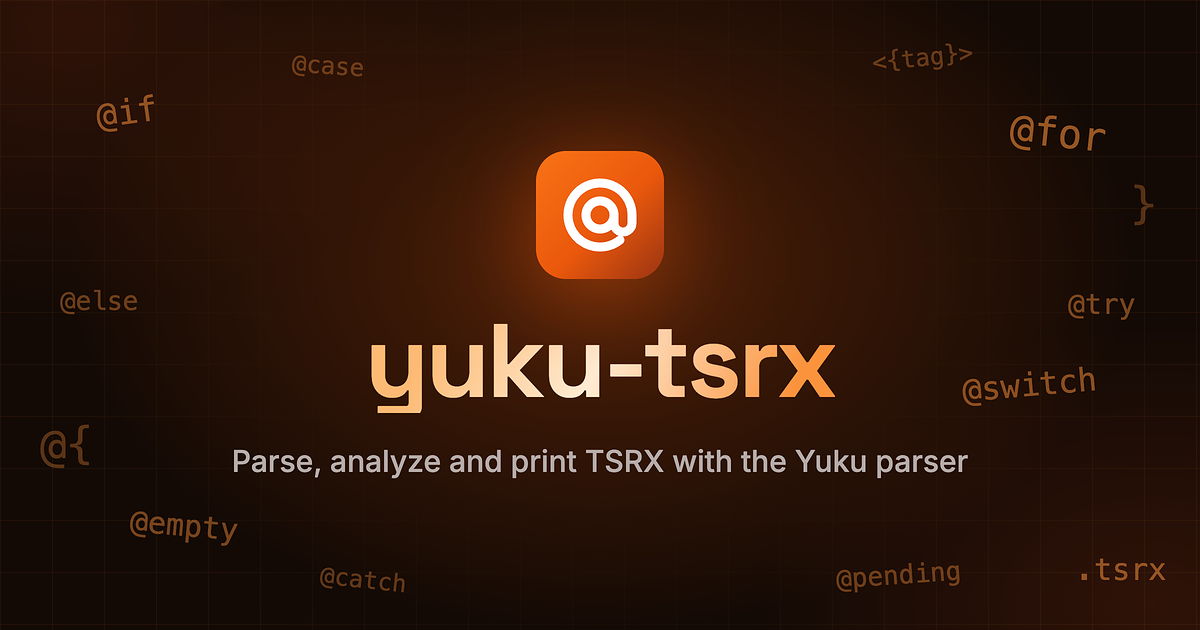
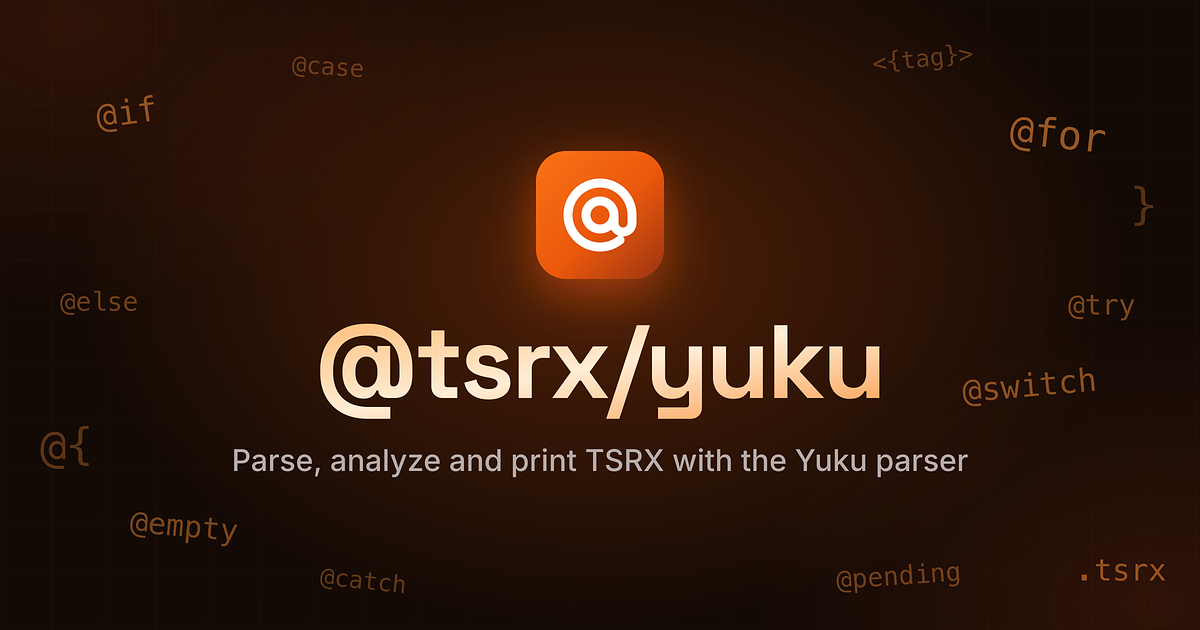
docs: use @tsrx/yuku across the website

diff --git a/yuku-website/assets/yuku-wasm.js b/yuku-website/assets/yuku-wasm.js
@@ -42,11 +42,11 @@ export function packFlags(options = {}) {
   return flags >>> 0
 }
 
-// Same text as npm/yuku-tsrx/index.js, so both hosts refuse the same way.
+// Same text as npm/yuku/index.js, so both hosts refuse the same way.
 const QUOTES_SHORTEST_UNSUPPORTED =
-  'yuku-tsrx generate: quotes "shortest" is not supported here; the codegen offers "preserve", "double" and "single", and minify picks the shortest quote itself'
+  '@tsrx/yuku generate: quotes "shortest" is not supported here; the codegen offers "preserve", "double" and "single", and minify picks the shortest quote itself'
 const SOURCE_MAPS_UNSUPPORTED =
-  'yuku-tsrx generate: sourceMaps is not supported here; the wasm build carries no source maps'
+  '@tsrx/yuku generate: sourceMaps is not supported here; the wasm build carries no source maps'
 
 // bit 0 strip, 1 minify, 2 compact, 3-4 quotes, 5-7 comments, 8-15 indent.
 export function packGenerateOptions(options = {}) {
@@ -86,7 +86,7 @@ let bootPromise = null
 async function boot() {
   const response = await fetch(wasmUrl)
   if (!response.ok) {
-    throw new Error(`yuku-tsrx wasm: HTTP ${response.status} for ${wasmUrl.pathname}`)
+    throw new Error(`@tsrx/yuku wasm: HTTP ${response.status} for ${wasmUrl.pathname}`)
   }
   const contentType = response.headers.get('content-type') ?? ''
   let instance
@@ -98,7 +98,7 @@ async function boot() {
     ;({ instance } = await WebAssembly.instantiate(await response.arrayBuffer(), {}))
   }
   for (const name of ['memory', 'alloc', 'free', 'parse', 'analyze', 'generate']) {
-    if (!(name in instance.exports)) throw new Error(`yuku-tsrx wasm: missing export ${name}`)
+    if (!(name in instance.exports)) throw new Error(`@tsrx/yuku wasm: missing export ${name}`)
   }
   const [{ decode }, analyzer] = await Promise.all([
     import(decodeUrl.href),
@@ -134,7 +134,7 @@ function writeSource(source) {
   const bytes = encoder.encode(source)
   const len = Math.max(bytes.length, 1)
   const ptr = engine.exports.alloc(len)
-  if (ptr === 0) throw new Error('yuku-tsrx wasm: alloc returned 0')
+  if (ptr === 0) throw new Error('@tsrx/yuku wasm: alloc returned 0')
   new Uint8Array(engine.exports.memory.buffer, ptr, bytes.length).set(bytes)
   return { ptr, len, byteLength: bytes.length }
 }
@@ -154,7 +154,7 @@ function call(name, source, flags, opts) {
       opts === undefined
         ? engine.exports[name](input.ptr, input.byteLength, flags)
         : engine.exports[name](input.ptr, input.byteLength, flags, opts)
-    if (ptr === 0) throw new Error(`yuku-tsrx wasm: ${name} failed`)
+    if (ptr === 0) throw new Error(`@tsrx/yuku wasm: ${name} failed`)
     return takePrefixed(ptr)
   } finally {
     engine.exports.free(input.ptr, input.len)
@@ -220,7 +220,7 @@ export async function generate(source, options = {}, generateOptions = {}) {
     offset += messageLength
   }
   if (offset !== payload.byteLength) {
-    throw new Error(`yuku-tsrx wasm: generate payload is ${payload.byteLength} bytes but decoded ${offset}`)
+    throw new Error(`@tsrx/yuku wasm: generate payload is ${payload.byteLength} bytes but decoded ${offset}`)
   }
   return { code, errors, ms: performance.now() - started }
 }

diff --git a/test/m4.test.ts b/test/m4.test.ts
@@ -257,7 +257,7 @@ test("generate honours strip and minify through the npm host", () => {
 test("generate refuses shortest quotes outside minify with one message on both hosts", async () => {
 	const program = parse("const s = 'x';", { lang: "ts" }).program;
 	const message =
-		'yuku-tsrx generate: quotes "shortest" is not supported here; the codegen offers "preserve", "double" and "single", and minify picks the shortest quote itself';
+		'@tsrx/yuku generate: quotes "shortest" is not supported here; the codegen offers "preserve", "double" and "single", and minify picks the shortest quote itself';
 	expect(() => generate(program, { quotes: "shortest" })).toThrow(new TypeError(message));
 	expect(() => generate(program, { minify: { quotes: true } })).toThrow(new TypeError(message));
 	const browser = await import("../yuku-website/assets/yuku-wasm.js");
@@ -267,7 +267,7 @@ test("generate refuses shortest quotes outside minify with one message on both h
 	);
 	expect(() => browser.packGenerateOptions({ sourceMaps: { source: "const s = 'x';" } })).toThrow(
 		new TypeError(
-			"yuku-tsrx generate: sourceMaps is not supported here; the wasm build carries no source maps",
+			"@tsrx/yuku generate: sourceMaps is not supported here; the wasm build carries no source maps",
 		),
 	);
 });

diff --git a/npm/yuku/index.js b/npm/yuku/index.js
@@ -64,7 +64,7 @@ export function analyze(source, filename, options) {
 }
 
 const QUOTES_SHORTEST_UNSUPPORTED =
-  'yuku-tsrx generate: quotes "shortest" is not supported here; the codegen offers "preserve", "double" and "single", and minify picks the shortest quote itself';
+  '@tsrx/yuku generate: quotes "shortest" is not supported here; the codegen offers "preserve", "double" and "single", and minify picks the shortest quote itself';
 
 function normalizeGenerateOptions(options) {
   const { minify, sourceMaps, ...next } = options ?? {};
@@ -84,7 +84,7 @@ function normalizeGenerateOptions(options) {
 function sourceMapOptions(sourceMaps) {
   if (typeof sourceMaps !== "object" || typeof sourceMaps.source !== "string") {
     throw new TypeError(
-      "yuku-tsrx generate: sourceMaps.source must be the source text the program was parsed from",
+      "@tsrx/yuku generate: sourceMaps.source must be the source text the program was parsed from",
     );
   }
   const { source, file, sourceFileName, sourceRoot, sourcesContent } = sourceMaps;

diff --git a/yuku-website/guide/build-from-source.md b/yuku-website/guide/build-from-source.md
@@ -14,10 +14,10 @@ Use Node.js 24, pnpm 10.33.2, Git, and Zig 0.16.0 to match this repository's CI.
 Clone this repository and its Yuku dependency side by side:
 
 ```sh
-git clone https://github.com/tsrx-org/yuku.git yuku-tsrx
+git clone https://github.com/tsrx-org/yuku.git yuku
 git clone https://github.com/thejackshelton/yuku.git yuku-minimal-seam
 git -C yuku-minimal-seam checkout 0aac786cdda22d06e8669abe198d6d1d6bd72183
-cd yuku-tsrx
+cd yuku
 pnpm install --frozen-lockfile --ignore-scripts
 ```
 
@@ -29,7 +29,7 @@ The commit above is the `SEAM_REF` in [the checks workflow](https://github.com/t
 
 ## Build and check the addon
 
-From the `yuku-tsrx` root:
+From the repository root:
 
 ```sh
 zig build
@@ -48,12 +48,12 @@ The tested prebuilt targets are macOS arm64 and Linux x64 with glibc. A local bu
 
 ## Use the build in another project
 
-If your application is a sibling of `yuku-tsrx`, use this dependency and run your package manager's install command:
+If your application is a sibling of the `yuku` checkout, use this dependency and run your package manager's install command:
 
 ```json
 {
   "dependencies": {
-    "@tsrx/yuku": "link:../yuku-tsrx/zig-out/npm/yuku"
+    "@tsrx/yuku": "link:../yuku/zig-out/npm/yuku"
   }
 }
 ```

diff --git a/yuku-website/reference/benchmarks.md b/yuku-website/reference/benchmarks.md
@@ -26,13 +26,14 @@ Choose a source size and run the browser parser. This shows scaling on your mach
 
 ## Run the native benchmark
 
-Follow [Build from source](/guide/build-from-source) first. The runner also needs the corpus files listed in `benchmarks/m5-corpus.json`; its paths are relative to a Markless checkout. The default is `../markless-yuku-tsrx-migration`; pass `--markless-root /path/to/checkout` to use another location. A fresh clone of this repository alone doesn't provide those files.
+Follow [Build from source](/guide/build-from-source) first. The runner also needs the corpus files listed in `benchmarks/m5-corpus.json`; its paths are relative to a Markless checkout. Pass that checkout with `--markless-root /path/to/checkout`. A fresh clone of this repository alone doesn't provide those files.
 
 From the repository root:
 
 ```sh
 zig build -Doptimize=ReleaseFast --prefix zig-out/perf-baseline
 LC_ALL=C node benchmarks/m6-performance.ts --phase baseline \
+  --markless-root /path/to/checkout \
   --package-baseline zig-out/perf-baseline/npm/yuku \
   --corpus benchmarks/m5-corpus.json \
   --output zig-out/m6-local.json \

diff --git a/yuku-website/guide/contributing.md b/yuku-website/guide/contributing.md
@@ -12,8 +12,8 @@ A clearer example, a smaller bug reproduction, or a fixed link is a useful contr
 You need Git, Node.js 24, and pnpm 10.33.2. You can use the prebuilt browser parser without installing Zig.
 
 ```sh
-git clone https://github.com/tsrx-org/yuku.git yuku-tsrx
-cd yuku-tsrx
+git clone https://github.com/tsrx-org/yuku.git yuku
+cd yuku
 pnpm install --frozen-lockfile --ignore-scripts
 node scripts/fetch-docs-wasm.mjs
 pnpm run docs:build

diff --git a/yuku-website/index.md b/yuku-website/index.md
@@ -1,5 +1,5 @@
 ---
-title: yuku-tsrx
+title: "@tsrx/yuku"
 description: Compiler infrastructure for TSRX. Parse, analyze scopes and bindings, transform an AST, and generate source.
 layout: home
 ---
